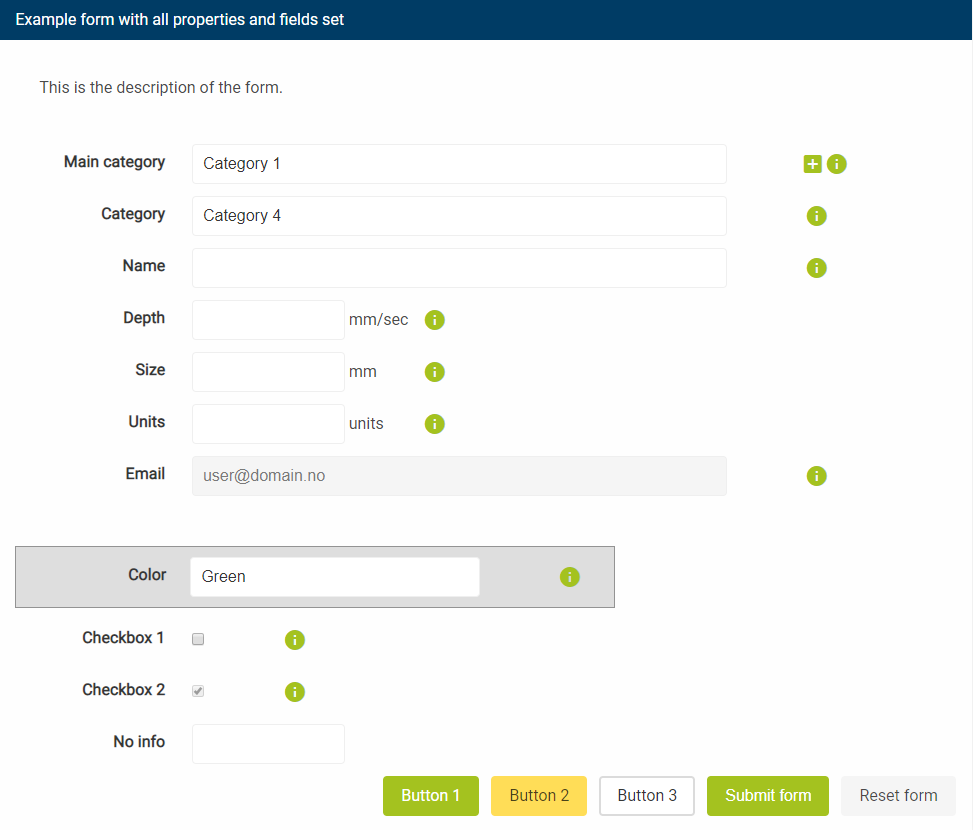
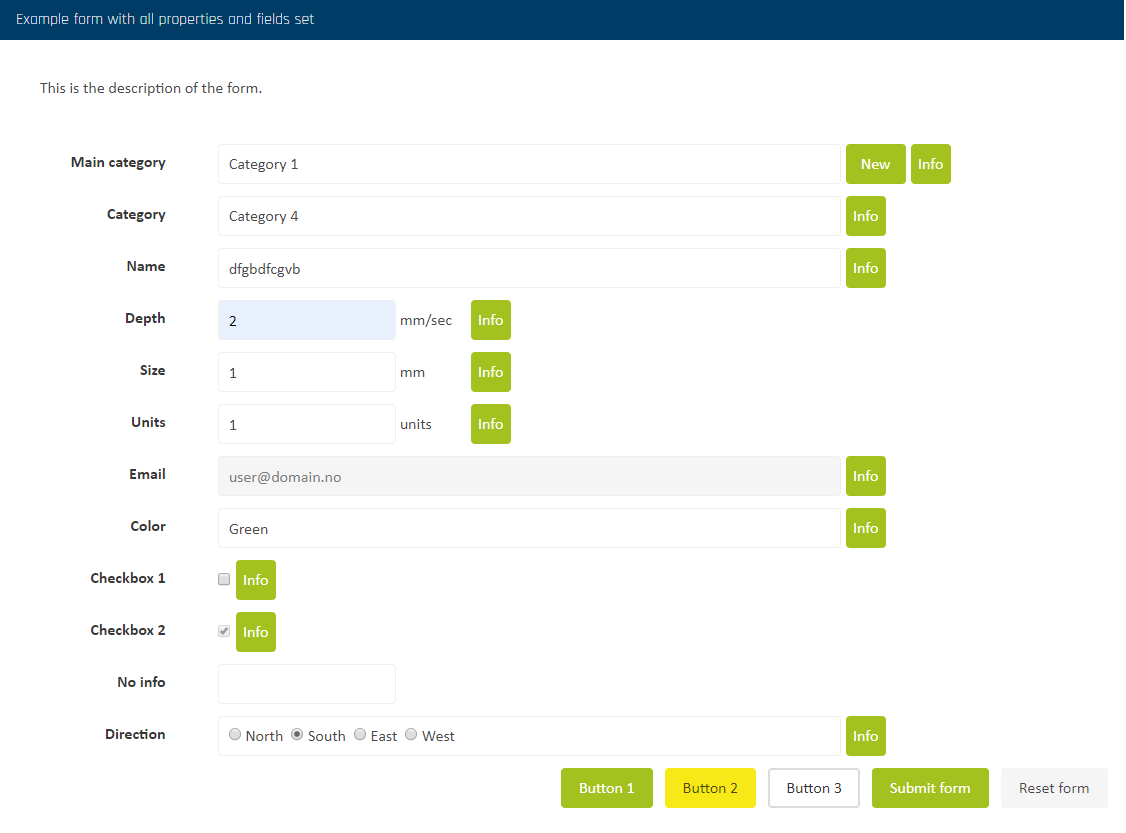
CONNECT-165 Fix form issues, misc small fixes

diff --git a/projects/wonka-ui/src/lib/forms/form.component.html b/projects/wonka-ui/src/lib/forms/form.component.html
@@ -7,13 +7,21 @@
                 </div>
                 <div class="field is-horizontal" *ngFor="let field of form.fields; trackBy: trackByFn; let i = index;" [ngClass]="field.class">
                     <div class="field-label is-normal">
-                        <label class="label" *ngIf="!showCreateNew[i]">{{ field.label }}</label>
-                        <label class="label" *ngIf="field.type === 'select' && showCreateNew[i] && field.newLabel">{{ field.newLabel }}</label>
+                        <label class="label">{{ field.label }}</label>
                     </div>
                     <div class="field-body">
                         <div class="field">
                             <div class="control">
                                 <div class="field is-horizontal">
+                                    
+                                    <div *ngIf="field.type === 'radio'" class="input medium-width">
+                                        <div *ngFor="let option of field.options; trackBy: trackByFn;"
+                                            type="text"
+                                            class="is-info radio">
+                                            <input id="{{option}}" type="radio" name="{{field.name}}" value="{{option}}" formControlName="{{field.name}}">
+                                            {{option}}
+                                        </div>
+                                    </div>
                                     <select *ngIf="field.type === 'select' && !showCreateNew[i]"
                                         type="text"
                                         class="input is-info medium-width"
@@ -25,7 +33,7 @@
                                         [ngClass]="(submitted && getInputField(field).errors) ? ('invalid ' + (field.wide === true ? 'medium-width' : 'small-width')) : (field.wide === true ? 'medium-width' : 'small-width')"
                                         class="input is-info medium-width"
                                         type="text"
-                                        placeholder=""
+                                        placeholder="Type in the new {{field.label.toLowerCase()}}"
                                         id="{{field.name}}"
                                         formControlName="{{field.name}}">
 
@@ -44,27 +52,38 @@
                                         id="{{field.name}}"
                                         formControlName="{{field.name}}">
 
-                                    <div style="min-width: 1px;" class="input-line">{{ field.units }}</div>
+                                    <select *ngIf="field.units && !isString(field.units)"
+                                        type="text"
+                                        class="input is-info small-width"
+                                        id="{{field.units}}_unit"
+                                        formControlName="{{field.name}}_unit">
+                                        <option *ngFor="let unit of field.units; trackBy: trackByFn;" value="{{unit}}">{{unit}}</option>
+                                    </select>
 
-                                    <a *ngIf="field.type === 'select' && field.canCreate"
+                                    <div style="min-width: 1px;" class="input-line" *ngIf="field.units && isString(field.units)">
+                                        {{ field.units }}
+                                    </div>
+                                    <div
+                                        class="button is-primary"
+                                        style="width: 60px; margin-left: 5px;"
+                                        *ngIf="field.type === 'select' && field.canCreate && showCreateNew[i]"
                                         (click)="createNew(field.name, i)">
-                                        <i *ngIf="showCreateNew[i]"
-                                            style="text-align: right; width: 20px;"
-                                            class="material-icons is-primary info-icon input-line link"
-                                            title="{{field.useExisting}}">
-                                            list
-                                        </i>
-                                        <i *ngIf="!showCreateNew[i]"
-                                            style="text-align: right; width: 20px;"
-                                            class="material-icons is-primary info-icon input-line link"
-                                            title="{{field.createNew}}">
-                                            add_box
-                                        </i>
-                                    </a>
-                                    &nbsp;
-                                    <mat-icon *ngIf="field.info" style="text-align: right; width: 20px;" aria-hidden="false" aria-label="icon" class="is-primary info-icon input-line link" (click)="info(field)">info</mat-icon>
-                                    <!--<mat-icon *ngIf="!field.info" style="color: lightgray; text-align: right; width: 20px;" aria-hidden="false" aria-label="icon" class="is-light info-icon input-line">info</mat-icon>-->
-
+                                        Cancel
+                                    </div>
+                                    <div
+                                        class="button is-primary"
+                                        style="width: 60px; margin-left: 5px;"
+                                        *ngIf="field.type === 'select' && field.canCreate && !showCreateNew[i]"
+                                        (click)="createNew(field.name, i)">
+                                        New
+                                    </div>
+                                    <div
+                                        *ngIf="field.info"
+                                        class="button is-primary"
+                                        style="width: 40px; margin-left: 5px;"
+                                        (click)="info(field)">
+                                        Info
+                                    </div>
                                 </div>
                                 
                                 <div *ngIf="submitted && getInputField(field).errors">

diff --git a/projects/wonka-ui/src/lib/forms/form.component.spec.ts b/projects/wonka-ui/src/lib/forms/form.component.spec.ts
@@ -32,7 +32,7 @@ describe('FormComponent', () => {
         {
           id: '1',
           label: 'Button 1',
-          class: 'is-primary'
+          class: 'test-button'
         }
       ] as FormButton[],
       fields: [
@@ -70,6 +70,13 @@ describe('FormComponent', () => {
           max: 100,
           expression: '^[\+\-]?([0-9]+([.][0-9]*)?|[.][0-9]+)$',
           info: 'Required field, value between -100 and 100'
+        }, {
+          label: 'Direction',
+          name: 'direction',
+          required: true,
+          type: 'radio',
+          options: ['North', 'South', 'East', 'West'],
+          info: 'Radio button group'
         }
       ] as FormFieldItem[]
     } as FormItem;
@@ -86,11 +93,13 @@ describe('FormComponent', () => {
     const depth = component.sintefForm.controls.depth;
     const size = component.sintefForm.controls.size;
     const temperature = component.sintefForm.controls.temperature;
+    const direction = component.sintefForm.controls.direction;
 
     expect(name.valid).toBeFalsy();
     expect(depth.valid).toBeTruthy();
     expect(size.valid).toBeFalsy();
     expect(temperature.valid).toBeFalsy();
+    expect(direction.valid).toBeFalsy();
     expect(component.sintefForm.valid).toBeFalsy();
   });
 
@@ -99,16 +108,19 @@ describe('FormComponent', () => {
     const depth = component.sintefForm.controls.depth;
     const size = component.sintefForm.controls.size;
     const temperature = component.sintefForm.controls.temperature;
+    const direction = component.sintefForm.controls.direction;
 
     name.setValue('Field name');
     depth.setValue(100);
     size.setValue(5);
     temperature.setValue(-25);
+    direction.setValue('West');
 
     expect(name.valid).toBeTruthy();
     expect(depth.valid).toBeTruthy();
     expect(size.valid).toBeTruthy();
     expect(temperature.valid).toBeTruthy();
+    expect(direction.valid).toBeTruthy();
     expect(component.sintefForm.valid).toBeTruthy();
   });
 
@@ -117,16 +129,19 @@ describe('FormComponent', () => {
     const depth = component.sintefForm.controls.depth;
     const size = component.sintefForm.controls.size;
     const temperature = component.sintefForm.controls.temperature;
+    const direction = component.sintefForm.controls.direction;
 
     name.setValue(10);
     depth.setValue('text');
     size.setValue(500);
     temperature.setValue(-110);
+    direction.setValue(null);
 
     expect(name.valid).toBeTruthy();
     expect(depth.valid).toBeFalsy();
     expect(size.valid).toBeFalsy();
     expect(temperature.valid).toBeFalsy();
+    expect(direction.valid).toBeFalsy();
     expect(component.sintefForm.valid).toBeFalsy();
   });
 
@@ -135,11 +150,13 @@ describe('FormComponent', () => {
     const depth = component.sintefForm.controls.depth;
     const size = component.sintefForm.controls.size;
     const temperature = component.sintefForm.controls.temperature;
+    const direction = component.sintefForm.controls.direction;
 
     name.setValue('Field name');
     depth.setValue(100);
     size.setValue(5);
     temperature.setValue(-25);
+    direction.setValue('West');
 
     const form = fixture.debugElement.query(By.css('form'));
     form.triggerEventHandler('submit', null);
@@ -151,7 +168,8 @@ describe('FormComponent', () => {
   });
 
   it('should emit when button is clicked', () => {
-    const button = fixture.debugElement.query(By.css('.button')).nativeElement;
+
+    const button = fixture.debugElement.query(By.css('.test-button')).nativeElement;
     spyOn(component.buttonClicked, 'emit');
     button.click();
     expect(component.buttonClicked.emit).toHaveBeenCalledWith('1');

diff --git a/projects/wonka-ui/src/lib/forms/form.component.ts b/projects/wonka-ui/src/lib/forms/form.component.ts
@@ -38,7 +38,7 @@ export interface FormFieldItem {
     /** Optional. Visible behind input field if it exists. */
     checked?: boolean;
     /** Optional. Used for type checkbox. */
-    units?: string;
+    units?: string | string[];
     /** Optional. Minimum value validator. */
     min?: number;
     /** Optional. Maximum value validator. */
@@ -107,17 +107,22 @@ export class FormComponent implements OnInit, OnDestroy {
     if (!this.class) {
       this.class = '';
     }
+
     this.createForm();
   }
 
   createNew(name: string, index: number) {
-    this.sintefForm.get(name).setValue('');
+    if (this.showCreateNew[index]) {
+      const formField = this.form.fields.find((field) => {
+        return field.name === name;
+      });
+      this.sintefForm.get(name + '_new').setValue('');
+      this.sintefForm.get(name).setValue(formField.options[0]);
+    } else {
+      this.sintefForm.get(name).setValue('');
+    }
     this.sintefForm.get(name).updateValueAndValidity();
     this.showCreateNew[index] =  !this.showCreateNew[index];
-    this.sintefForm.get(name + '_new')
-      .setValue(
-        this.showCreateNew[index] ? true : false
-      );
   }
 
   private createForm(): void {
@@ -137,7 +142,12 @@ export class FormComponent implements OnInit, OnDestroy {
       if (controlInfo.type === 'select' && controlInfo.options) {
         control.setValue(controlInfo.options[0]);
         if (controlInfo.canCreate) {
-          form.addControl(controlInfo.name + '_new', new FormControl(false));
+          form.addControl(controlInfo.name + '_new', new FormControl(controlInfo.options[0]));
+        }
+        if (controlInfo.units && !this.isString(controlInfo.units)) {
+          const unitControl = new FormControl(false);
+          unitControl.setValue(controlInfo.units[0]);
+          form.addControl(controlInfo.name + '_unit', unitControl);
         }
       }
       if (controlInfo.type === 'checkbox' && controlInfo.checked) {
@@ -161,6 +171,10 @@ export class FormComponent implements OnInit, OnDestroy {
 
   get f() {
     return this.sintefForm.controls;
+  }
+
+  isString(field: string | string[]): boolean {
+    return typeof field === 'string';
   }
 
   getInputField(field: FormFieldItem) {

diff --git a/projects/application/src/app/examples/forms/forms.component.ts b/projects/application/src/app/examples/forms/forms.component.ts
@@ -139,6 +139,15 @@ export class FormsComponent implements OnInit {
           wide: true,
           info: 'Required field, text, wide, no restrictions'
         }, {
+          label: 'Amount',
+          name: 'amountSelectUnits',
+          required: true,
+          type: 'select',
+          options: ['400', '600', '800'],
+          wide: true,
+          info: 'Selectable units',
+          units: ['Kilograms', 'Meters']
+        }, {
           label: 'Depth',
           description: 'This is the description of the field.',
           name: 'depth',
@@ -201,6 +210,13 @@ export class FormsComponent implements OnInit {
           name: 'noInfo',
           wide: false,
           type: 'string',
+        }, {
+          label: 'Direction',
+          name: 'direction',
+          required: true,
+          type: 'radio',
+          options: ['North', 'South', 'East', 'West'],
+          info: 'Radio button group'
         }
       ] as FormFieldItem[]
     } as FormItem;
@@ -272,6 +288,15 @@ export class FormsComponent implements OnInit {
           wide: true,
           info: 'Required field, text, wide, no restrictions'
         }, {
+          label: 'Amount',
+          name: 'amountSelectUnits',
+          required: true,
+          type: 'select',
+          options: ['400', '600', '800'],
+          wide: true,
+          info: 'Selectable units',
+          units: ['Kilograms', 'Meters']
+        }, {
           label: 'Depth',
           description: 'This is the description of the field.',
           name: 'depth',
@@ -334,6 +359,13 @@ export class FormsComponent implements OnInit {
           name: 'noInfo',
           wide: false,
           type: 'string',
+        }, {
+          label: 'Direction',
+          name: 'direction',
+          required: true,
+          type: 'radio',
+          options: ['North', 'South', 'East', 'West'],
+          info: 'Radio button group'
         }
       ] as FormFieldItem[]
     } as FormItem;

diff --git a/projects/wonka-ui/src/lib/navigation/navigation-bar/navigation-bar.component.html b/projects/wonka-ui/src/lib/navigation/navigation-bar/navigation-bar.component.html
@@ -42,7 +42,7 @@
                   <li class="navbar-item" *ngIf="user">
                     {{ user ? user.email : '' }}
                   </li>
-                  <button class="is-small button {{ user ? 'is-light' : 'is-primary' }}" (click)="authorize()">
+                  <button id="login-button" class="is-small button {{ user ? 'is-light' : 'is-primary' }}" (click)="authorize()">
                     <strong *ngIf="user">{{ logout }}</strong>
                     <strong *ngIf="!user">{{ login }}</strong>
                   </button>

diff --git a/README.md b/README.md
@@ -217,7 +217,7 @@ form = {
           label: 'Button 3'
         }
       ] as FormButton[],
-      fields: [
+            fields: [
         {
           label: 'Main category',
           name: 'categoryAddNew',
@@ -242,6 +242,15 @@ form = {
           type: 'string',
           wide: true,
           info: 'Required field, text, wide, no restrictions'
+        }, {
+          label: 'Amount',
+          name: 'amountSelectUnits',
+          required: true,
+          type: 'select',
+          options: ['400', '600', '800'],
+          wide: true,
+          info: 'Selectable units',
+          units: ['Kilograms', 'Meters']
         }, {
           label: 'Depth',
           description: 'This is the description of the field.',
@@ -305,6 +314,13 @@ form = {
           name: 'noInfo',
           wide: false,
           type: 'string',
+        }, {
+          label: 'Direction',
+          name: 'direction',
+          required: true,
+          type: 'radio',
+          options: ['North', 'South', 'East', 'West'],
+          info: 'Radio button group'
         }
       ] as FormFieldItem[]
     } as FormItem;
